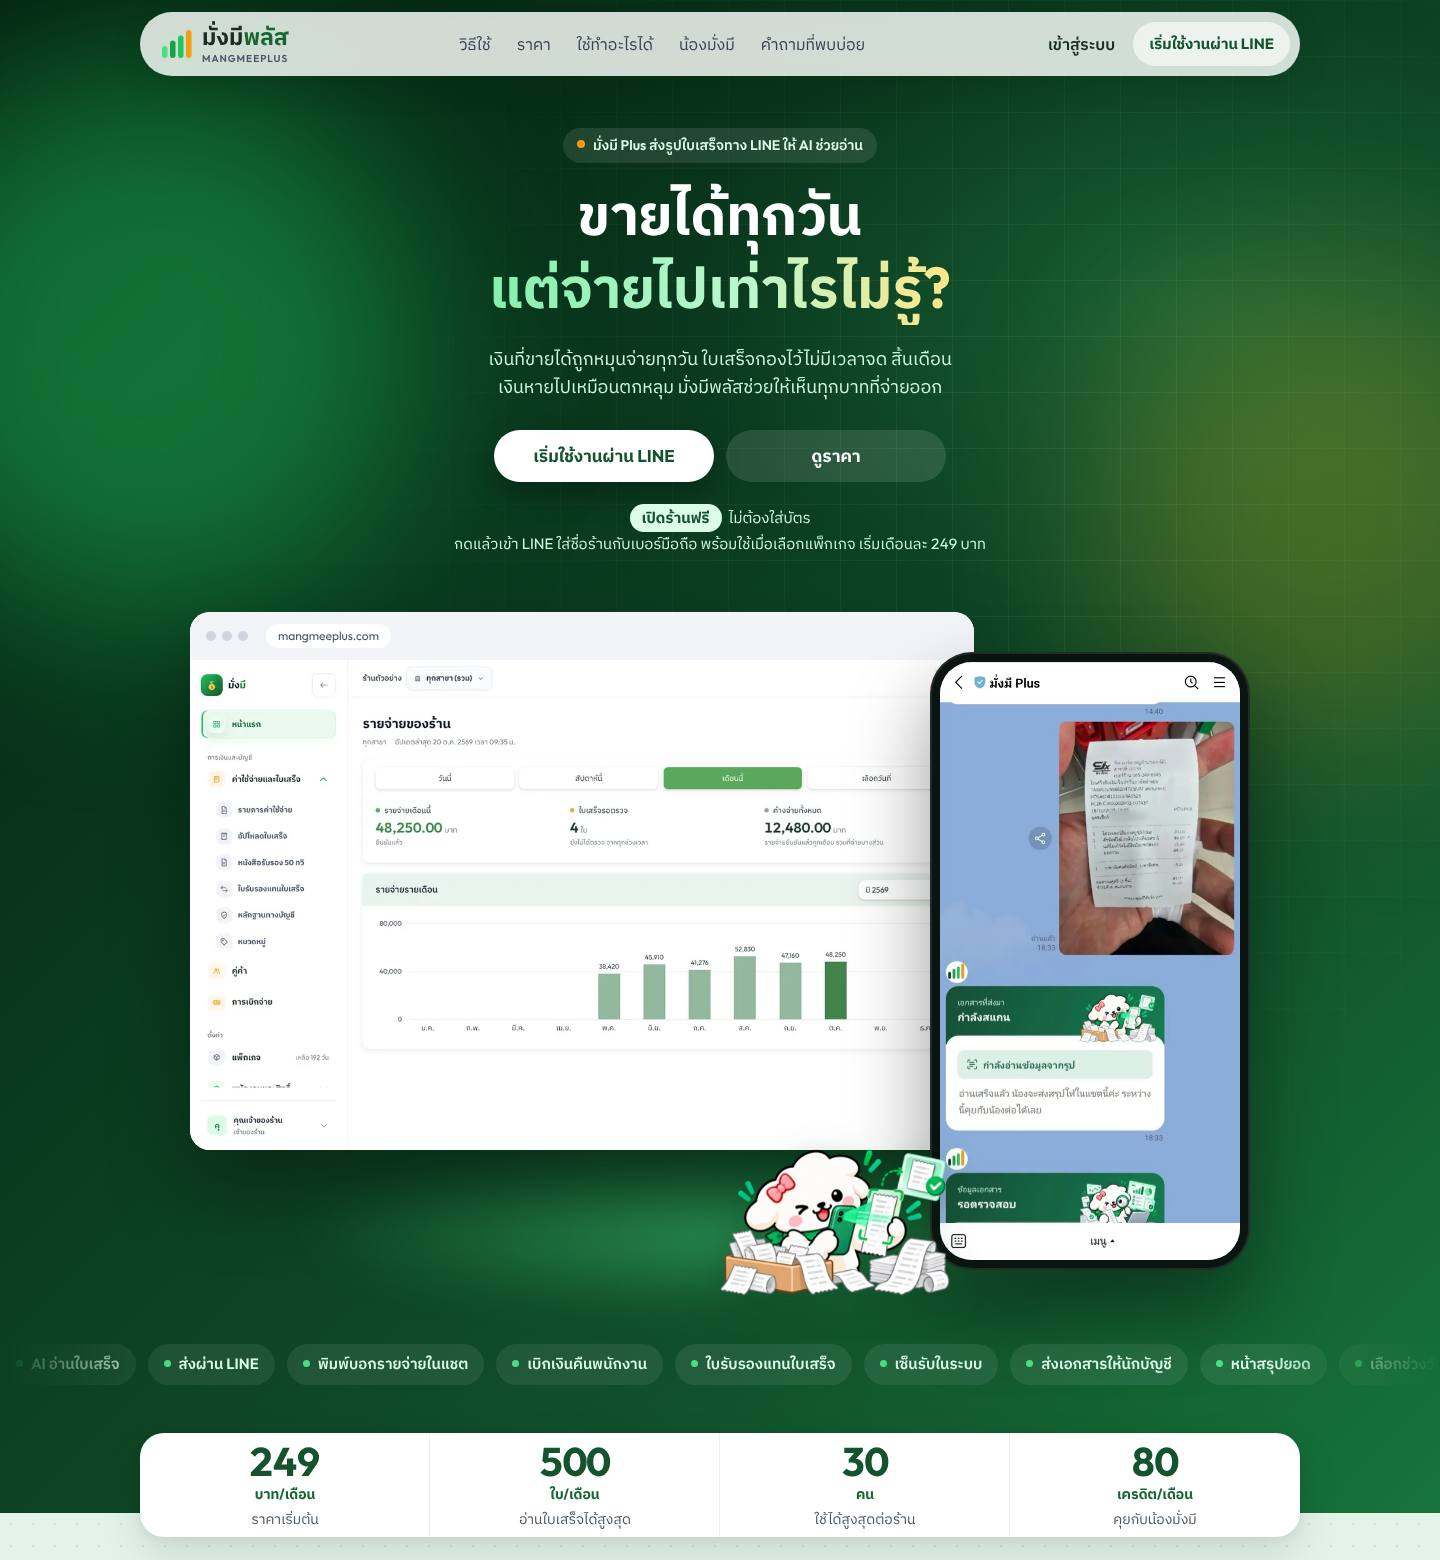
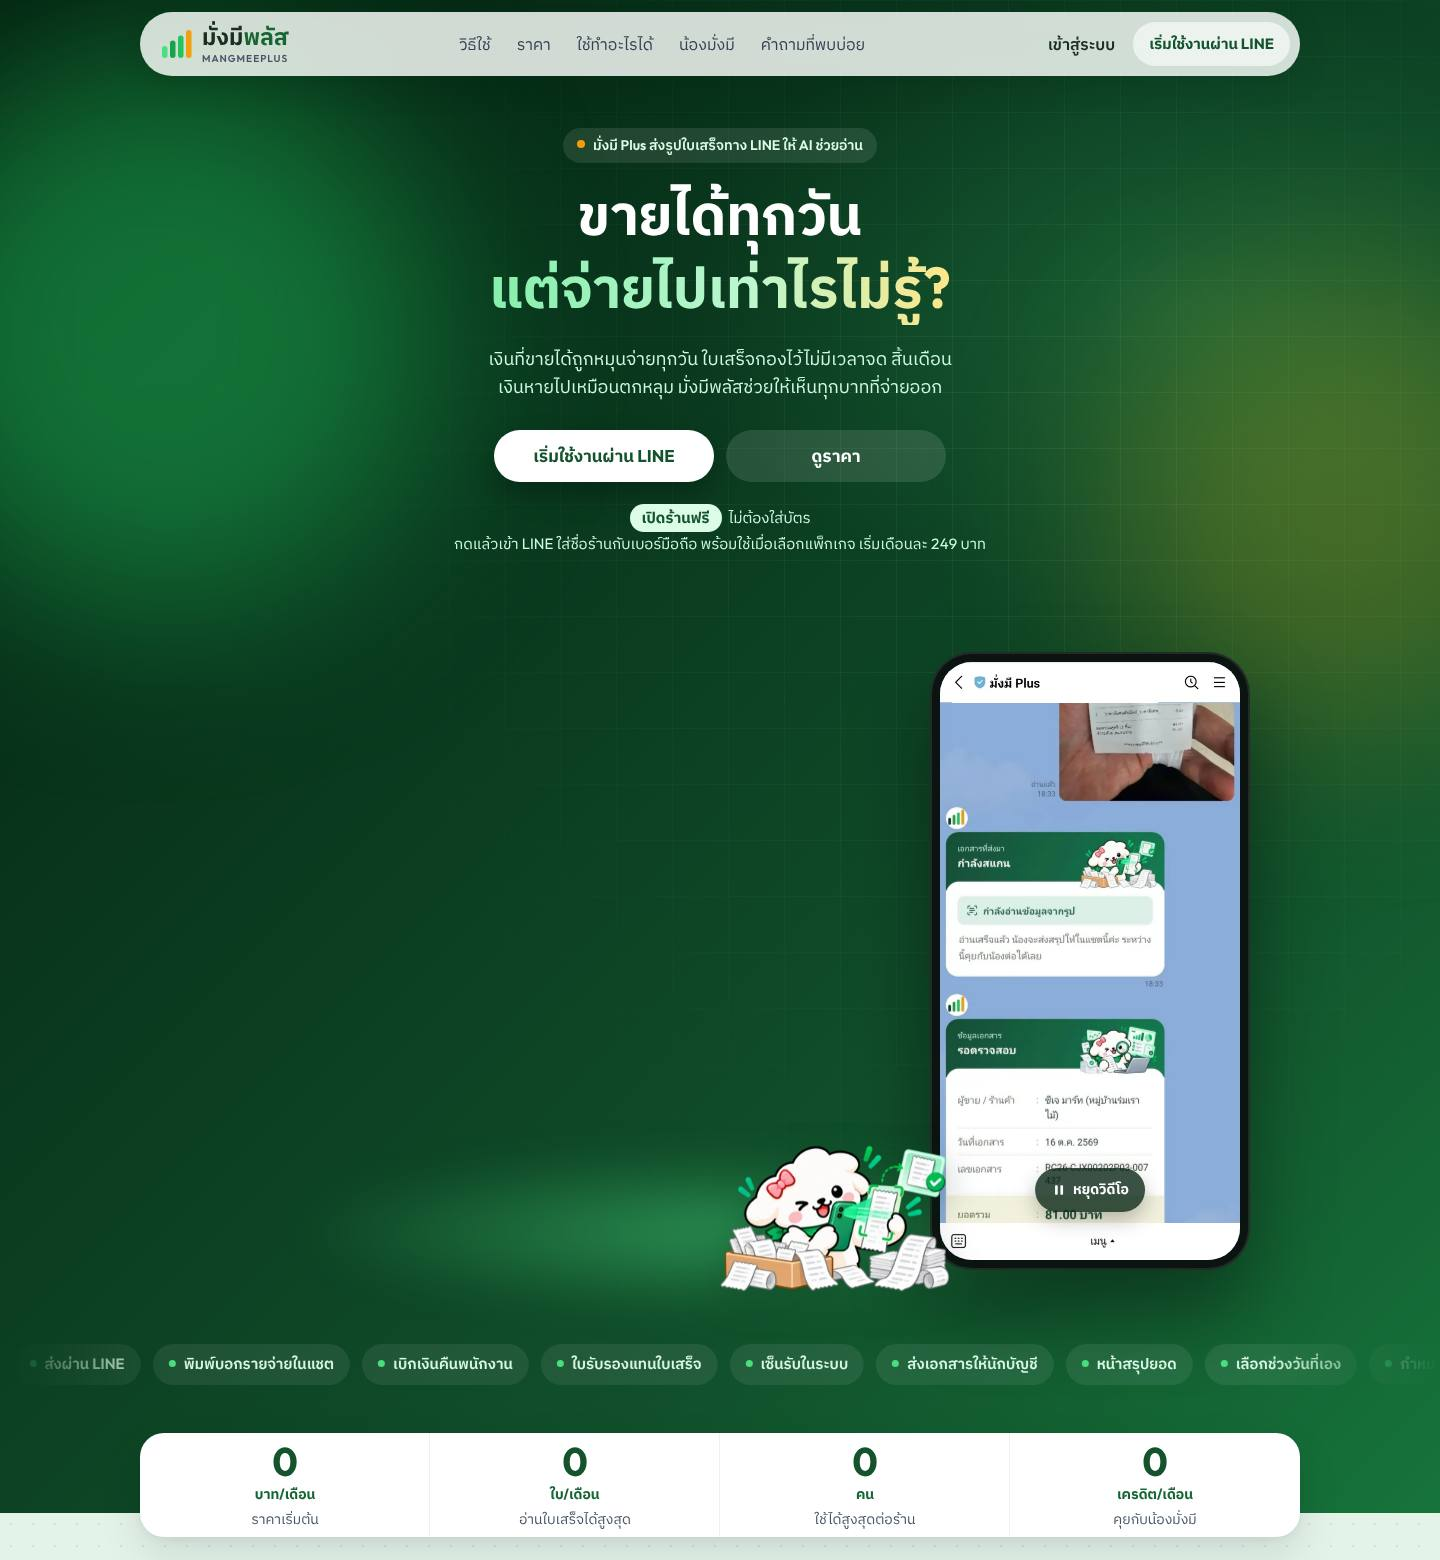
docs: v3 hero phone returns to the right and the signup video can pause
Claude-Session: https://claude.ai/code/session_01J7ScAcuHmAWY52w61WzGcF

diff --git a/docs/agent-memory/mangmee-main-website-prototype-2026-10-20.md b/docs/agent-memory/mangmee-main-website-prototype-2026-10-20.md
@@ -369,3 +369,7 @@ Decisions (apply_r16.py):
 - Results block "แม่นยำแค่ไหน": 91–97% answers, printed-total receipts all correct in the latest set, 0 unverified money figures; no counts, no model/code wording.
 - Local renderer fix: event attributes arrive lower-case (`onclick`) from the HTML template, so render.js now matches /^on[a-z]+$/i; earlier rounds never click-tested through it.
 Verification: Chromium click tests — pause holds the strip (-274 → -274 over 1.5 s), resume continues (-274 → -796), label and checkbox state switch; document 3 opens centred (600 × 848 at x 420) and closes; home 1440/390 no overflow (8345 / 14366); scroll test 0 transparent sections; pipeline reproduces Main; canvas version 30.
+
+## Revision 3s — hero phone back on the right, signup video pausable
+
+Owner screenshot showed the LINE phone on the left over the dashboard: round 16 added a generic `.reel{position:relative}` after `.stage-phone{position:absolute}`, which overrode it (the local renderer showed the same; the stage crop had not been re-checked after round 16). Scoped it to `.close-phone .reel`. The signup video got the same checkbox/label pause (`#su-pause`). Moved the image labels off `figure.stage` / `figure.close-phone` (role="img" would hide the pause controls) onto the dashboard and each phone screen. Checked: hero phone at x 930 (right), signup pause holds -253 → -253 and resumes; home 1440/390 no overflow; canvas version 31.
